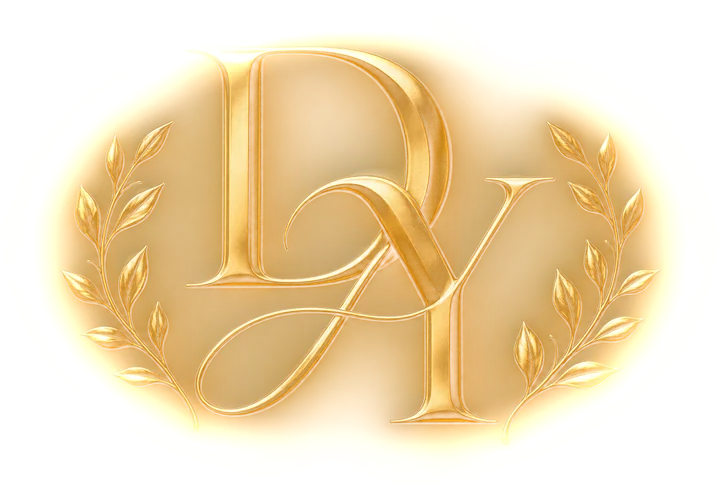
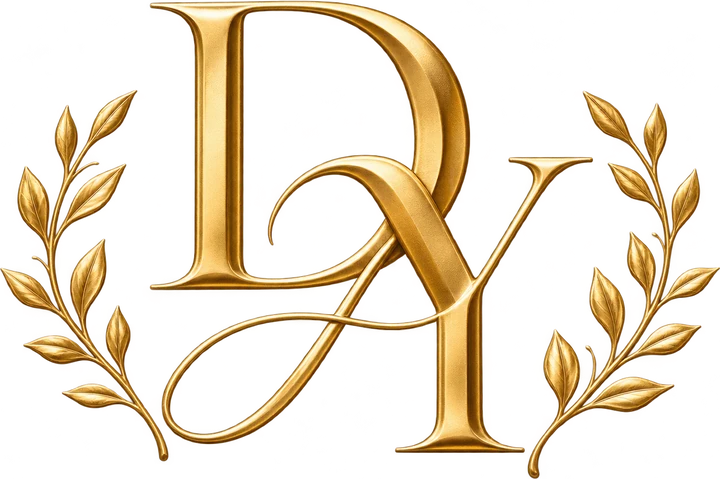
Closing: names above, clean monogram below (no glow); Bodoni Moda initials matching the monogram; landscape layout keeps faces clear
Claude-Session: https://claude.ai/code/session_019F132VGiKqYndudBvgFJkK

diff --git a/index.html b/index.html
@@ -11,7 +11,7 @@
 <meta property="og:title" content="Deivin & Yuliana · Nos casamos">
 <meta property="og:description" content="Con amor y mucha ilusión, te invitamos a celebrar con nosotros · 20.03.2027">
 <meta property="og:image" content="https://karenquinteroboni.github.io/Deivin-Yuliana/assets/img/og.jpg">
-<link rel="preload" as="image" href="assets/img/seal.webp?v=4">
+<link rel="preload" as="image" href="assets/img/seal.webp?v=5">
 <link rel="stylesheet" href="css/fonts.css">
 <link rel="stylesheet" href="css/styles.css">
 </head>
@@ -35,14 +35,14 @@
       <div class="env-back"></div>
 
       <div class="flap" id="flap">
-        <div class="flap-face flap-front"><img class="orn orn-top" src="assets/img/orn-top.svg?v=4" alt=""></div>
+        <div class="flap-face flap-front"><img class="orn orn-top" src="assets/img/orn-top.svg?v=5" alt=""></div>
         <div class="flap-face flap-inner"></div>
       </div>
       <div class="pocket"></div>
 
-      <img class="orn orn-side orn-left" src="assets/img/orn-side.svg?v=4" alt="">
-      <img class="orn orn-side orn-right" src="assets/img/orn-side.svg?v=4" alt="">
-      <img class="orn orn-bottom" src="assets/img/orn-bottom.svg?v=4" alt="">
+      <img class="orn orn-side orn-left" src="assets/img/orn-side.svg?v=5" alt="">
+      <img class="orn orn-side orn-right" src="assets/img/orn-side.svg?v=5" alt="">
+      <img class="orn orn-bottom" src="assets/img/orn-bottom.svg?v=5" alt="">
 
       <!-- líneas de pliegue + luces que recorren el sobre desde el sello (se dimensionan por JS) -->
       <svg class="lines" id="lines" aria-hidden="true">
@@ -60,7 +60,7 @@
       </svg>
 
       <button class="seal" id="seal" type="button" aria-label="Abrir invitación: toca el sello">
-        <img src="assets/img/seal.webp?v=4" alt="Sello de lacre con las iniciales D y Y" width="260" height="270">
+        <img src="assets/img/seal.webp?v=5" alt="Sello de lacre con las iniciales D y Y" width="260" height="270">
         <span class="seal-ring" aria-hidden="true"></span>
       </button>
       <p class="hint" id="hint">Toca el sello para abrir</p>
@@ -72,16 +72,16 @@
 
   <!-- Video de apertura -->
   <div class="walk" id="walk" aria-hidden="true">
-    <video id="walkVideo" muted playsinline preload="auto" poster="assets/img/caminata-poster.jpg?v=4">
-      <source src="assets/media/caminata.mp4?v=4" type="video/mp4">
+    <video id="walkVideo" muted playsinline preload="auto" poster="assets/img/caminata-poster.jpg?v=5">
+      <source src="assets/media/caminata.mp4?v=5" type="video/mp4">
     </video>
     <div class="walk-shade"></div>
-    <p class="walk-title">Deivin <span>&amp;</span> Yuliana</p>
+    <p class="walk-title"><span class="ini">D</span>eivin <span>&amp;</span> <span class="ini">Y</span>uliana</p>
     <button class="skip" id="skip" type="button">Saltar</button>
   </div>
 </div>
 
-<audio id="music" src="assets/media/musica.mp3?v=4" loop preload="auto"></audio>
+<audio id="music" src="assets/media/musica.mp3?v=5" loop preload="auto"></audio>
 
 <div class="backdrop" aria-hidden="true"></div>
 
@@ -97,7 +97,7 @@
 </div>
 
 <nav class="menu" id="menu" aria-label="Menú de navegación" hidden>
-  <img class="menu-mono" src="assets/img/monogram.webp?v=4" alt="" width="120">
+  <img class="menu-mono" src="assets/img/monogram.webp?v=5" alt="" width="120">
   <ul>
     <li><a href="#inicio">Inicio</a></li>
     <li><a href="#nos-casamos">Nos casamos</a></li>
@@ -116,11 +116,11 @@
 
   <!-- PORTADA -->
   <section id="inicio" class="hero">
-    <img class="hero-bg" src="assets/img/playa.jpg?v=4" alt="Deivin y Yuliana abrazados al atardecer en la playa">
+    <img class="hero-bg" src="assets/img/playa.jpg?v=5" alt="Deivin y Yuliana abrazados al atardecer en la playa">
     <div class="hero-shade"></div>
     <div class="hero-in reveal">
       <p class="eyebrow">Con amor y mucha ilusión</p>
-      <h1 class="names">Deivin <span>&amp;</span> Yuliana</h1>
+      <h1 class="names"><span class="ini">D</span>eivin <span>&amp;</span> <span class="ini">Y</span>uliana</h1>
       <p class="date-line">20 · 03 · 2027</p>
       <p class="phrase">Nuestro lugar favorito<br>siempre será juntos.</p>
     </div>
@@ -132,12 +132,12 @@
     <div class="wm" aria-hidden="true"></div>
     <div class="frame reveal has-relief">
       <div class="relief" aria-hidden="true">
-        <img class="rl rl-l" src="assets/img/orn-side.svg?v=4" alt="">
-        <img class="rl rl-r" src="assets/img/orn-side.svg?v=4" alt="">
-        <img class="rl rl-b" src="assets/img/orn-bottom.svg?v=4" alt="">
+        <img class="rl rl-l" src="assets/img/orn-side.svg?v=5" alt="">
+        <img class="rl rl-r" src="assets/img/orn-side.svg?v=5" alt="">
+        <img class="rl rl-b" src="assets/img/orn-bottom.svg?v=5" alt="">
       </div>
       <span class="corner tl"></span><span class="corner tr"></span><span class="corner bl"></span><span class="corner br"></span>
-      <figure class="arch"><img src="assets/img/pareja.jpg?v=4" alt="Deivin y Yuliana" loading="lazy"></figure>
+      <figure class="arch"><img src="assets/img/pareja.jpg?v=5" alt="Deivin y Yuliana" loading="lazy"></figure>
       <h2 class="sec-title">Nos casamos</h2>
       <p class="lead">Dos corazones, una promesa.<br>Y una historia que apenas comienza.</p>
       <p class="body">Con amor y la ilusión de compartir una vida juntos, hemos decidido unir nuestros caminos para siempre y celebrar el comienzo de una nueva etapa, un día destinado a permanecer por siempre en nuestros corazones.</p>
@@ -188,12 +188,12 @@
 
     <div class="notes reveal">
       <div class="note">
-        <img class="emblem sm" src="assets/img/icon-dulces-suenos.webp?v=4" alt="" width="88" height="85">
+        <img class="emblem sm" src="assets/img/icon-dulces-suenos.webp?v=5" alt="" width="88" height="85">
         <h4>Niños, dulces sueños</h4>
         <p>Para que todos nuestros invitados —incluidos los papás— puedan disfrutar de la fiesta al máximo, hemos optado por una recepción exclusivamente para adultos.</p>
       </div>
       <div class="note">
-        <img class="emblem sm" src="assets/img/icon-parqueadero.webp?v=4" alt="" width="88" height="85">
+        <img class="emblem sm" src="assets/img/icon-parqueadero.webp?v=5" alt="" width="88" height="85">
         <h4>Parqueadero disponible</h4>
         <p>Contaremos con disponibilidad de parqueadero.</p>
       </div>
@@ -231,8 +231,8 @@
     <div class="frame reveal dress">
       <span class="corner tl"></span><span class="corner tr"></span><span class="corner bl"></span><span class="corner br"></span>
       <div class="dress-grid">
-        <div><img class="emblem" src="assets/img/icon-damas.webp?v=4" alt="" width="112" height="108"><p class="card-k">Damas</p><p>Vestido largo de gala.</p></div>
-        <div><img class="emblem" src="assets/img/icon-caballeros.webp?v=4" alt="" width="112" height="108"><p class="card-k">Caballeros</p><p>Esmoquin negro, camisa blanca y corbata negra.</p></div>
+        <div><img class="emblem" src="assets/img/icon-damas.webp?v=5" alt="" width="112" height="108"><p class="card-k">Damas</p><p>Vestido largo de gala.</p></div>
+        <div><img class="emblem" src="assets/img/icon-caballeros.webp?v=5" alt="" width="112" height="108"><p class="card-k">Caballeros</p><p>Esmoquin negro, camisa blanca y corbata negra.</p></div>
       </div>
       <p class="card-k reserved-t">Colores reservados</p>
       <ul class="reserved">
@@ -249,7 +249,7 @@
     <div class="wm" aria-hidden="true"></div>
     <div class="frame reveal slim">
       <span class="corner tl"></span><span class="corner tr"></span><span class="corner bl"></span><span class="corner br"></span>
-      <img class="emblem sm" src="assets/img/icon-sobres.webp?v=4" alt="" width="88" height="85">
+      <img class="emblem sm" src="assets/img/icon-sobres.webp?v=5" alt="" width="88" height="85">
       <h2 class="sec-title small">Lluvia de sobres</h2>
       <p class="body">Nos hace muy felices que compartas este día con nosotros. Si deseas regalarnos algo, en la recepción encontrarás el buzón de la lluvia de sobres.</p>
     </div>
@@ -279,12 +279,12 @@
 
   <!-- DESPEDIDA -->
   <footer class="bye">
-    <img class="bye-bg" src="assets/img/pareja.jpg?v=4" alt="">
+    <img class="bye-bg" src="assets/img/pareja.jpg?v=5" alt="">
     <div class="bye-tint" aria-hidden="true"></div>
     <div class="reveal">
-      <img class="bye-mono" src="assets/img/monogram.webp?v=4" alt="Monograma D y Y" width="220">
       <p class="lead">Te esperamos con el corazón</p>
-      <p class="names small">Deivin <span>&amp;</span> Yuliana</p>
+      <p class="names small"><span class="ini">D</span>eivin <span>&amp;</span> <span class="ini">Y</span>uliana</p>
+      <img class="bye-mono" src="assets/img/monogram.webp?v=5" alt="Monograma D y Y" width="220">
     </div>
   </footer>
 </main>

diff --git a/css/styles.css b/css/styles.css
@@ -139,15 +139,15 @@ body{font-size:var(--fs-body);font-weight:500;line-height:1.65}
 .sec::after{content:"";position:absolute;inset:0;background:var(--grain);opacity:.5;mix-blend-mode:multiply;pointer-events:none}
 .sec>*:not(.wm),.bye>.reveal{position:relative}
 .hero+.sec{box-shadow:0 -1px 0 var(--gold-line)}
-.wm{position:absolute;inset:0;pointer-events:none;background:url(../assets/img/monogram.webp?v=4) center 50%/min(92vw,640px) no-repeat;mix-blend-mode:multiply;opacity:.1}
+.wm{position:absolute;inset:0;pointer-events:none;background:url(../assets/img/monogram.webp?v=5) center 50%/min(92vw,640px) no-repeat;mix-blend-mode:multiply;opacity:.1}
 
 /* fondo fijo que se transparenta (y se desenfoca) a través de cada hoja */
 .backdrop{position:fixed;inset:-30px;z-index:-1;pointer-events:none;filter:blur(6px) saturate(1.05);
   background:radial-gradient(circle at 18% 12%,#3a5fc4 0,transparent 38%),radial-gradient(circle at 88% 38%,#dcbd6e 0,transparent 26%),
     radial-gradient(circle at 12% 70%,#dcbd6e 0,transparent 22%),radial-gradient(circle at 80% 92%,#3a5fc4 0,transparent 40%),
     linear-gradient(180deg,#6d8ad2,#34519f)}
-.backdrop::before{content:"";position:absolute;inset:0;background:url(../assets/img/monogram.webp?v=4) 50% 46%/min(80vw,560px) no-repeat;opacity:.5}
-.backdrop::after{content:"";position:absolute;inset:0;background:url(../assets/img/orn-bottom.svg?v=4) 50% 8%/min(92vw,520px) no-repeat,url(../assets/img/orn-side.svg?v=4) -4% 60%/auto 70vh no-repeat,url(../assets/img/orn-side.svg?v=4) 104% 20%/auto 70vh no-repeat;opacity:.45}
+.backdrop::before{content:"";position:absolute;inset:0;background:url(../assets/img/monogram.webp?v=5) 50% 46%/min(80vw,560px) no-repeat;opacity:.5}
+.backdrop::after{content:"";position:absolute;inset:0;background:url(../assets/img/orn-bottom.svg?v=5) 50% 8%/min(92vw,520px) no-repeat,url(../assets/img/orn-side.svg?v=5) -4% 60%/auto 70vh no-repeat,url(../assets/img/orn-side.svg?v=5) 104% 20%/auto 70vh no-repeat;opacity:.45}
 
 /* ---- texto ---- */
 .eyebrow{font-family:var(--serif);font-weight:600;font-size:var(--fs-label);letter-spacing:.3em;text-transform:uppercase;color:var(--gold-ink);padding-left:.3em}
@@ -263,7 +263,6 @@ textarea::placeholder{color:#55608f;opacity:1}
 .bye>img.bye-bg{position:absolute;inset:0;width:100%;height:100%;object-fit:cover;object-position:50% 28%;opacity:.5}
 .bye>.bye-tint{position:absolute;inset:0;background:linear-gradient(180deg,#07102acc 0%,#0a1a4a55 45%,#07102aee 100%)}
 .bye>.reveal{width:100%;max-width:560px}
-.bye-mono{width:min(54vw,200px);margin:0 auto 18px;opacity:.95;mix-blend-mode:screen}
 .bye .lead{color:#fff6e0;text-shadow:0 2px 18px #000a}
 .bye .names{color:#f6e3a6;text-shadow:0 2px 22px #000a;font-size:var(--fs-names);margin-top:8px}
 
@@ -312,3 +311,21 @@ textarea::placeholder{color:#55608f;opacity:1}
 .intro.walking{transition:none}
 .intro.walking .walk{transition:none}
 .intro.walking .stage{visibility:hidden}
+
+/* ---- iniciales D y Y con la tipografía del monograma (Bodoni Moda) ---- */
+.names .ini,.walk-title .ini{font-family:'Bodoni Moda','Playfair Display',Georgia,serif;font-style:normal;font-weight:600;font-size:1.08em;margin:0;letter-spacing:0;line-height:1}
+
+/* ---- cierre: nombres en su posición, logo debajo y sin sombra ---- */
+.bye{align-items:flex-start}
+.bye>.reveal{padding-top:54vh;padding-top:54svh}
+.bye-mono{display:block;width:min(54vw,210px);height:auto;margin:30px auto 0;opacity:1;filter:none;mix-blend-mode:normal}
+
+/* computador (pantalla horizontal): texto abajo para no tapar las caras */
+@media (min-aspect-ratio:1/1){
+  .bye{align-items:flex-end;padding-bottom:28px}
+  .bye>.reveal{padding-top:0}
+  .bye>img.bye-bg{object-position:50% 36%}
+  .bye .lead{font-size:20px}
+  .bye .names{font-size:clamp(44px,6vw,56px);margin-top:4px}
+  .bye-mono{width:118px;margin-top:14px}
+}

diff --git a/css/fonts.css b/css/fonts.css
@@ -7,3 +7,4 @@
 @font-face{font-family:'Jost';font-style:normal;font-weight:300;font-display:swap;src:url(../assets/fonts/Jost-300.ttf) format('truetype')}
 @font-face{font-family:'Jost';font-style:normal;font-weight:400;font-display:swap;src:url(../assets/fonts/Jost-400.ttf) format('truetype')}
 @font-face{font-family:'Jost';font-style:normal;font-weight:500;font-display:swap;src:url(../assets/fonts/Jost-500.ttf) format('truetype')}
+@font-face{font-family:'Bodoni Moda';font-style:normal;font-weight:600;font-display:swap;src:url(../assets/fonts/BodoniModa-600.ttf) format('truetype')}

diff --git a/js/main.js b/js/main.js
@@ -242,7 +242,7 @@
 
   /* ---------- enlaces configurables ---------- */
   if (C.dressCodeUrl) $('#dressLink').href = C.dressCodeUrl;
-  if (C.photosUrl) { const q = $('.qr'); q.src = q.dataset.src + '?v=4'; $('#fotos').hidden = false; $('#navFotos').hidden = false; $('#photosLink').href = C.photosUrl; }
+  if (C.photosUrl) { const q = $('.qr'); q.src = q.dataset.src + '?v=5'; $('#fotos').hidden = false; $('#navFotos').hidden = false; $('#photosLink').href = C.photosUrl; }
 
   /* ---------- agregar al calendario (.ics) ---------- */
   $('#addCal').addEventListener('click', () => {
